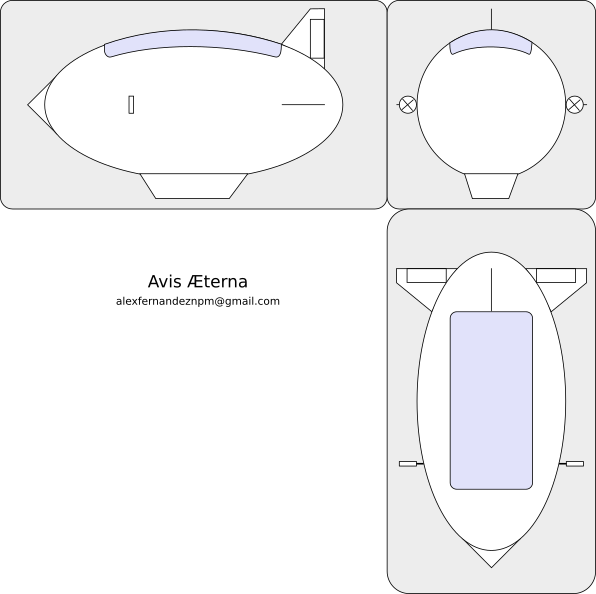
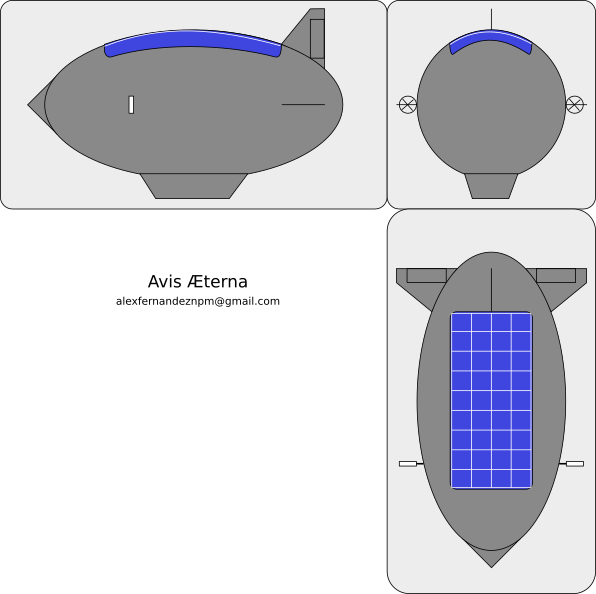
Make on 2024-03-09T20:42:44Z

Changed region(s): [[0.0302, 0.0, 0.5738, 0.3333], [0.6644, 0.4242, 0.9966, 0.9697], [0.6946, 0.0303, 0.9664, 0.3333]]

diff --git a/2024/aves-aeternae.html b/2024/aves-aeternae.html
@@ -78,12 +78,13 @@
                     <h1 id="building-models">🏗 Building Models</h1>
                     <p>I set up to build more detailed plans with a given scale in mind. I expected to find a wall at any point where the required technology just wasn’t available, or it was too exotic to be purchased just yet. To my surprise there were no showstoppers: the technology is here, and everything seems to be feasible, right now. The engineering challenge is thus amazingly possible.</p>
                     <h2 id="model-scale">🎚 Model Scale</h2>
-                    <p>What would be an appropriate scale for a model?</p>
+                    <p>So let’s build a scale model! In what follows we will look at a 2×2×4 meter model, more or less the size of a car: big enough to be substantial, but small enough to be built with limited means.</p>
                     <h3 id="proportions">🏉 Proportions</h3>
-                    <p>The classical design for a blimp or a zeppelin is a spheroid. (Yes, I know that last time I chose a design similar to a boat: square and flat profile. I have since come to appreciate a more classic dirigible design.)</p>
+                    <p>The classical design for a blimp or a zeppelin is a spheroid. (Yes, I know that last time I chose a design similar to a boat: square and flat profile. I have since come to appreciate a more classic design.)</p>
                     <figure>
                     <img src="pics/aves-ellipsoid.png" title="3D rendering of an ellipsoid, a stretched sphere or the shape of a rugby ball." alt="" /><figcaption>An spheroid or ellipsoid. Source: <a href="https://en.wikipedia.org/wiki/File:Ellipsoid_Quadric.png">Sam Derbyshire, Wikimedia</a>.</figcaption>
                     </figure>
+                    <p>It is quite aerodynamic, or should be: drag of a spheroid is close to 0.03, according to <a href="https://doi.org/10.2514/1.14796">GE Dorrington in “Drag of Spheroid-Cone Shaped Airship”</a>. Also it is simple to model and build. So let’s go with a spheroid!</p>
                     <h3 id="dimensions">📏 Dimensions</h3>
                     <p>An intriguing option is to size the avis aeterna vaguely like a car: two meters wide and tall, four meters long. (For any US readers it’s 6.5 feet wide.) It is big enough to be substantial, but small enough to be built in a garage.</p>
                     <p>This mandates all of the proportions of the model: with the value of two meters and the <a href="https://en.wikipedia.org/wiki/Spheroid">spheroid</a> equations we can compute everything else. First we have a prolate spheroid with axis <code>A=2m</code>, and length <code>C=4m</code>. The volume contained becomes:</p>
@@ -92,16 +93,32 @@
                     <p><code>V ≈ 2m * 2m * 4m / 2 = (2m)³ = 8 m³.</code></p>
                     <p>And the area is very approximately:</p>
                     <p><code>S ≈ 5 * 2m * 2m = 5 * 4m² = 20 m².</code></p>
-                    <h3 id="weight">🏋 Weight</h3>
+                    <p>These are the basic parameters of our model.</p>
+                    <h3 id="weight">⚖ Weight</h3>
+                    <p>You may remember that the plan was to fill the airship with hydrogen: even lighter than helium, and quite cheaper. For an uncrewed vehicle the risks are negligible. Also, for a continuously flying machine hydrogen can be replenished in flight, as we will see later.</p>
                     <p>How much will our model weight? Exactly as much as the air displaced by the hydrogen: we compute the weight of the air inside, and then subtract the weight of the same volume of hydrogen. Since the density of air is 1.3 kg/m³, and of hydrogen is 70 g/m³, lift will be:</p>
                     <p>`L = (1.3 - 0.070) kg/m³ * 8 m³ ≈ 9.84 kg.</p>
-                    <p>So our budget is around 10 kg. As you see, at this stage it’s not enough to do Fermi estimations: for a more detailed feasibility study we need more approximate numbers. It is still OK to round up numbers as we did above with surface and volume.</p>
+                    <p>So our budget is around 10 kg. As you see, at this stage it’s not enough to do Fermi estimations (i.e. order of magnitude): for a detailed feasibility study we need more precise numbers. It is still OK to round up numbers as we did above with surface and volume.</p>
                     <h2 id="build">Build</h2>
+                    <p>How can we build an airship?</p>
                     <h3 id="structure">Structure</h3>
-                    <p>We want to build a real dirigible, not a blimp: the difference is that the dirigible or zeppelin has a rigid structure, while blimps are just inflatable. We know that Zeppelins worked, and with ancient materials even, but is it possible to do it at this scale?</p>
-                    <p>Let’s go with the simplest structure: just a shell. Adding</p>
+                    <p>We want to build a real dirigible, not a blimp: the difference is that the dirigible or zeppelin has a rigid structure, while blimps are just inflatable. We know that Zeppelins worked, and with ancient 1900s materials even, but is it possible to do it at this scale?</p>
+                    <p>Let’s go with the simplest structure: just a shell. We can set up a rigid hull that contains a sack, which in turn holds our lifting gas. What is the weight per square meter that we can afford?</p>
+                    <p>First we have to set up a budget: how much of our 10 kg we want to spend in the shell. It seems obvious that this is going to be our biggest source of weight, and that we should reserve for it as much as we can afford: a stronger structure is going to hold up better against strong winds or impacts. Let us say half our weight is for the structure.</p>
+                    <p>We have to reserve some weight for the wings and other parts. Let us say 4 kg for the hull. Since we have 20 m² of surface, the areal density will be:</p>
+                    <pre><code>D(A) = 4 kg / 20 m²
+                    = 200 g/m².</code></pre>
+                    <p>What kind of material can be strong enough at 0.2 kg per square meter? Only <a href="https://en.wikipedia.org/wiki/Carbon-fiber-reinforced_polymers">carbon fiber</a> fits the bill. It is a very interesting material made of carbon fibers embedded in an epoxy resin, which when cured results in super strong panels.</p>
+                    <h3 id="wings-and-reinforcements">🪽 Wings and Reinforcements</h3>
+                    <p>We set aside a budget of one kg for the rest of the hull.</p>
+                    <p>The wings need also be built using carbon fiber. They need to be even stronger than the outer shell. Two wings and a tail on top are of the same approximate dimensions: 60 x 80 cm, for a total area of approx. one third of a m². The three share an area of 1 m². The areal density needs to be at least twice of the shell, probably 500 g/m², for a total weight of 0.5 kg.</p>
+                    <p>Also some reinforcements are required where the parts are joined. It is impossible to build the hull in one go; different pieces have to built and assembled. In our case we can build eight identical panels, and then join them together using reinforcements. These can be built using carbon fiber and glass fiber for elasticity.</p>
+                    <figure>
+                    <img src="pics/aves-aeternae-hull.png" title="A spheroid cut in four. Source: the author." alt="" /><figcaption>Pieces of the hull.</figcaption>
+                    </figure>
+                    <p>Finally we need a small cone to place at the front. Together the budget of 1 kg seems doable.</p>
                     <h3 id="hydrogen-sack">🎈 Hydrogen Sack</h3>
-                    <p>At this scale we don’t want a complicated set of sacks containing the hydrogen; just one big bag will do.</p>
+                    <p>Inside the hull a large bag will hold the gas. At this scale we don’t want a complicated set of sacks containing the hydrogen; just one big bag will do.</p>
                     <p>Helium balloons are usually done with Mylar, but there are materials that leak even less hydrogen: PVA is a very strong contender.</p>
                     <p>In <a href="https://rest.neptune-prod.its.unimelb.edu.au/server/api/core/bitstreams/9a2af3f4-a7c8-467a-ba32-ade91ba45822/content">Lei <em>et al</em></a> the team experiment with several coatings, finding that PVA (polyvinyl alcohol) has the lowest hydrogen permeability.</p>
                     <p>Luckily it is not hard to get PVA bags, as they are widely used in industry because they are biodegradable. One precaution is that PVA dissolves in water, so the interior of the structure must be kept dry.</p>
@@ -115,14 +132,14 @@
                     Q = 0.0084 * 3.35 * 10^-16 * 86400 * 101325 / 0.00005 mol,
                     Q = 0.0005 mol.</code></pre>
                     <p>Converting to grams is easy as 1 mol of Hydrogen is defined as 1 g, so we are leaking half a milligram per day. Not bad considering that we have around 0.5 kg of hydrogen! These nubers do not look very realistic, and have to be contrasted with real world tests with real bags. But the safety margin is quite large.</p>
-                    <h3 id="wings">🪽 Wings</h3>
                     <h2 id="energy-sources">⚡ Energy Sources</h2>
-                    <p>https://www.reddit.com/r/IsaacArthur/comments/t44ypy/can_you_have_a_selfmaintaining_hydrogen/</p>
+                    <p>The airship needs to be able to direct its flight. It needs a power source that gives enough energy for our purposes. Being a demonstration model it doesn’t need to withstand any kind of weather, but</p>
                     <h3 id="solar-energy">☀ Solar Energy</h3>
                     <h3 id="wind-energy">🌬 Wind Energy</h3>
                     <h3 id="batteries">🔋 Batteries</h3>
-                    <h2 id="weights">⚖ Weights</h2>
                     <h3 id="power">🛩 Power</h3>
+                    <h2 id="history">History</h2>
+                    <p>https://www.reddit.com/r/IsaacArthur/comments/t44ypy/can_you_have_a_selfmaintaining_hydrogen/</p>
                     <h2 id="changes">🔮 Changes</h2>
                     <p>In the <a href="https://pinchito.es/2023/avis-aeterna">last article</a> I used a reference design 10 meters long and 10 meters wide. That is definitely too large for an initial model. Also, the proportions have changed since then.</p>
                     <h1 id="conclusion">🤔 Conclusion</h1>

diff --git a/2024/aves-aeternae.md b/2024/aves-aeternae.md
@@ -26,16 +26,25 @@ The engineering challenge is thus amazingly possible.
 
 ## 🎚 Model Scale
 
-What would be an appropriate scale for a model?
+So let's build a scale model!
+In what follows we will look at a 2×2×4 meter model, more or less the size of a car:
+big enough to be substantial,
+but small enough to be built with limited means.
 
 ### 🏉 Proportions
 
 The classical design for a blimp or a zeppelin is a spheroid.
 (Yes, I know that last time I chose a design similar to a boat:
 square and flat profile.
-I have since come to appreciate a more classic dirigible design.)
+I have since come to appreciate a more classic design.)
 
 ![An spheroid or ellipsoid. Source: [Sam Derbyshire, Wikimedia](https://en.wikipedia.org/wiki/File:Ellipsoid_Quadric.png).](pics/aves-ellipsoid.png "3D rendering of an ellipsoid, a stretched sphere or the shape of a rugby ball.")
+
+It is quite aerodynamic, or should be:
+drag of a spheroid is close to 0.03,
+according to [GE Dorrington in "Drag of Spheroid-Cone Shaped Airship"](https://doi.org/10.2514/1.14796).
+Also it is simple to model and build.
+So let's go with a spheroid!
 
 ### 📏 Dimensions
 
@@ -64,7 +73,15 @@ And the area is very approximately:
 
 `S ≈ 5 * 2m * 2m = 5 * 4m² = 20 m².`
 
-### 🏋 Weight
+These are the basic parameters of our model.
+
+### ⚖ Weight
+
+You may remember that the plan was to fill the airship with hydrogen:
+even lighter than helium, and quite cheaper.
+For an uncrewed vehicle the risks are negligible.
+Also, for a continuously flying machine hydrogen can be replenished in flight,
+as we will see later.
 
 How much will our model weight?
 Exactly as much as the air displaced by the hydrogen:
@@ -76,11 +93,14 @@ and of hydrogen is 70 g/m³, lift will be:
 `L = (1.3 - 0.070) kg/m³ * 8 m³ ≈ 9.84 kg.
 
 So our budget is around 10 kg.
-As you see, at this stage it's not enough to do Fermi estimations:
-for a more detailed feasibility study we need more approximate numbers.
+As you see, at this stage it's not enough to do Fermi estimations
+(i.e. order of magnitude):
+for a detailed feasibility study we need more precise numbers.
 It is still OK to round up numbers as we did above with surface and volume.
 
 ## Build
+
+How can we build an airship?
 
 ### Structure
 
@@ -88,15 +108,64 @@ We want to build a real dirigible, not a blimp:
 the difference is that the dirigible or zeppelin has a rigid structure,
 while blimps are just inflatable.
 We know that Zeppelins worked,
-and with ancient materials even,
+and with ancient 1900s materials even,
 but is it possible to do it at this scale?
 
 Let's go with the simplest structure:
 just a shell.
-Adding 
+We can set up a rigid hull that contains a sack,
+which in turn holds our lifting gas.
+What is the weight per square meter that we can afford?
+
+First we have to set up a budget:
+how much of our 10 kg we want to spend in the shell.
+It seems obvious that this is going to be our biggest source of weight,
+and that we should reserve for it as much as we can afford:
+a stronger structure is going to hold up better against strong winds or impacts.
+Let us say half our weight is for the structure.
+
+We have to reserve some weight for the wings and other parts.
+Let us say 4 kg for the hull.
+Since we have 20 m² of surface,
+the areal density will be:
+
+```
+D(A) = 4 kg / 20 m²
+= 200 g/m².
+```
+
+What kind of material can be strong enough at 0.2 kg per square meter?
+Only [carbon fiber](https://en.wikipedia.org/wiki/Carbon-fiber-reinforced_polymers) fits the bill.
+It is a very interesting material made of carbon fibers embedded in an epoxy resin,
+which when cured results in super strong panels.
+
+### 🪽 Wings and Reinforcements
+
+We set aside a budget of one kg for the rest of the hull.
+
+The wings need also be built using carbon fiber.
+They need to be even stronger than the outer shell.
+Two wings and a tail on top are of the same approximate dimensions:
+60 x 80 cm, for a total area of approx. one third of a m².
+The three share an area of 1 m².
+The areal density needs to be at least twice of the shell,
+probably 500 g/m², for a total weight of 0.5 kg.
+
+Also some reinforcements are required where the parts are joined.
+It is impossible to build the hull in one go;
+different pieces have to built and assembled.
+In our case we can build eight identical panels,
+and then join them together using reinforcements.
+These can be built using carbon fiber and glass fiber for elasticity.
+
+![Pieces of the hull.](pics/aves-aeternae-hull.png "A spheroid cut in four. Source: the author.")
+
+Finally we need a small cone to place at the front.
+Together the budget of 1 kg seems doable.
 
 ### 🎈 Hydrogen Sack
 
+Inside the hull a large bag will hold the gas.
 At this scale we don't want a complicated set of sacks containing the hydrogen;
 just one big bag will do.
 
@@ -151,11 +220,12 @@ These nubers do not look very realistic,
 and have to be contrasted with real world tests with real bags.
 But the safety margin is quite large.
 
-### 🪽 Wings
-
 ## ⚡ Energy Sources
 
-https://www.reddit.com/r/IsaacArthur/comments/t44ypy/can_you_have_a_selfmaintaining_hydrogen/
+The airship needs to be able to direct its flight.
+It needs a power source that gives enough energy for our purposes.
+Being a demonstration model it doesn't need to withstand any kind of weather,
+but 
 
 ### ☀ Solar Energy
 
@@ -164,11 +234,11 @@ https://www.reddit.com/r/IsaacArthur/comments/t44ypy/can_you_have_a_selfmaintain
 ### 🔋 Batteries
 
 
-## ⚖ Weights
-
-
-
 ### 🛩 Power
+
+## History
+
+https://www.reddit.com/r/IsaacArthur/comments/t44ypy/can_you_have_a_selfmaintaining_hydrogen/
 
 ## 🔮 Changes
 
